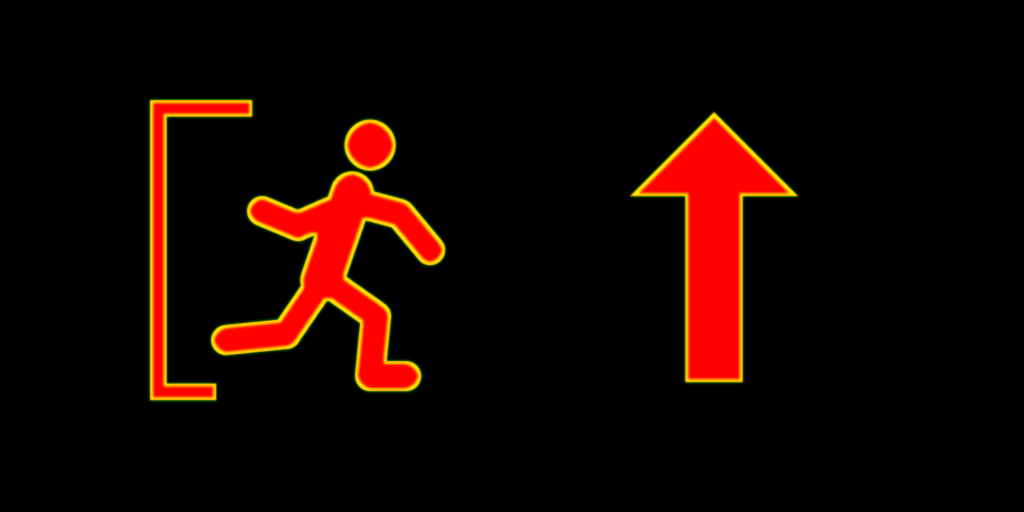
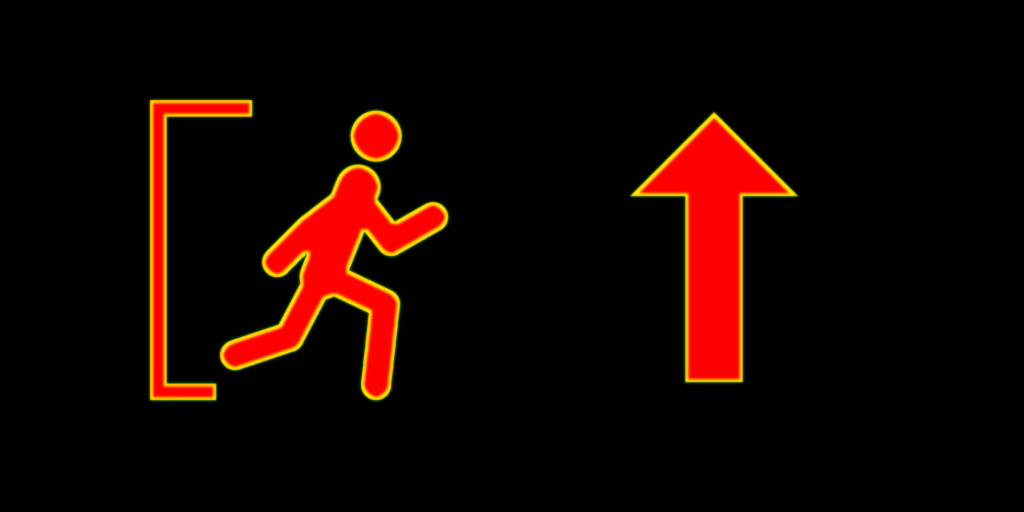
The running figure of the way-out signs, redrawn: arms that run, no feet
The front arm bends forward and up and the back arm swings back, both legs
end without a foot (one had one and the other did not), and the head sits
clear of the shoulders, as the standard figure does.

Changed region(s): [[0.1875, 0.2188, 0.4375, 0.7812]]

diff --git a/tools/textures/make_exit_sign.py b/tools/textures/make_exit_sign.py
@@ -162,12 +162,13 @@ LIMB = 30
 
 def figure(mask, x0, y0):
     """The running figure of the standard sign, in its own box: head, body
-    leaning into the run, the front arm reaching, the back arm pulling, one
-    leg stepping out and the other kicking back. Stamped with a round pen."""
+    leaning into the run, the front arm bent forward and up, the back arm
+    swung back, one leg stepping out and the other kicking back, with no
+    feet, as the standard draws it. Stamped with a round pen."""
     layer = Image.new("L", SUPER, 0)
     pen = ImageDraw.Draw(layer)
     at = lambda u, v: (x0 + u * FIG, y0 + v * FIG)
-    head = at(0.60, 0.13)
+    head = at(0.62, 0.10)
     r = 0.085 * FIG
     pen.ellipse([(head[0] - r) * OVER, (head[1] - r) * OVER, (head[0] + r) * OVER, (head[1] + r) * OVER], fill=255)
 
@@ -177,11 +178,11 @@ def figure(mask, x0, y0):
             path += joining(at(*a), at(*b), 40)
         stroke_path(pen, path, width)
 
-    limb([(0.54, 0.29), (0.44, 0.58)], LIMB * 1.45)            # body
-    limb([(0.55, 0.32), (0.70, 0.36), (0.80, 0.48)])           # front arm
-    limb([(0.52, 0.33), (0.36, 0.40), (0.24, 0.35)])           # back arm
-    limb([(0.45, 0.58), (0.62, 0.70), (0.60, 0.90), (0.72, 0.90)])  # front leg
-    limb([(0.43, 0.60), (0.32, 0.76), (0.12, 0.78)])           # back leg
+    limb([(0.56, 0.27), (0.44, 0.57)], LIMB * 1.5)            # body
+    limb([(0.56, 0.31), (0.67, 0.45), (0.81, 0.37)])           # front arm, bent up
+    limb([(0.53, 0.31), (0.40, 0.41), (0.29, 0.52)])           # back arm, swung back
+    limb([(0.46, 0.57), (0.65, 0.66), (0.62, 0.93)])           # front leg, no foot
+    limb([(0.43, 0.58), (0.33, 0.77), (0.15, 0.83)])           # back leg, no foot
     mask.paste(ImageChops.lighter(mask, layer))
 
 
